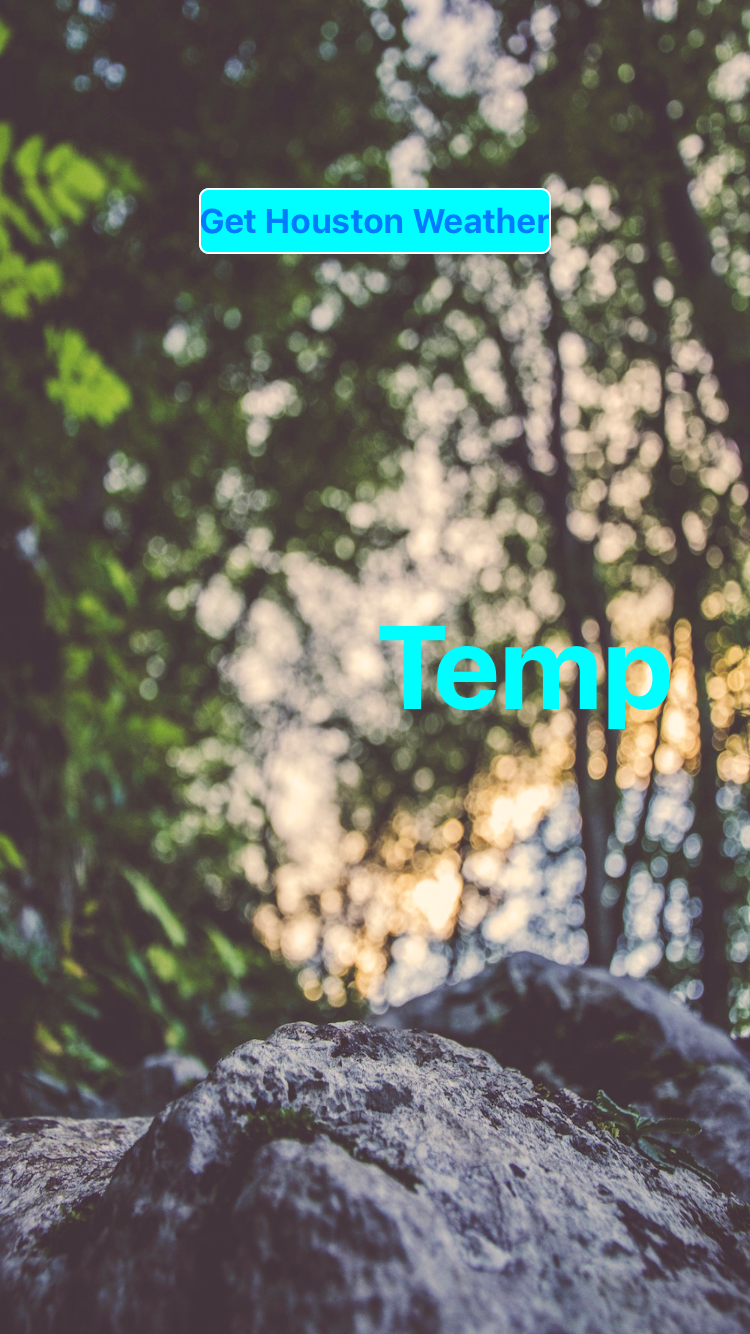
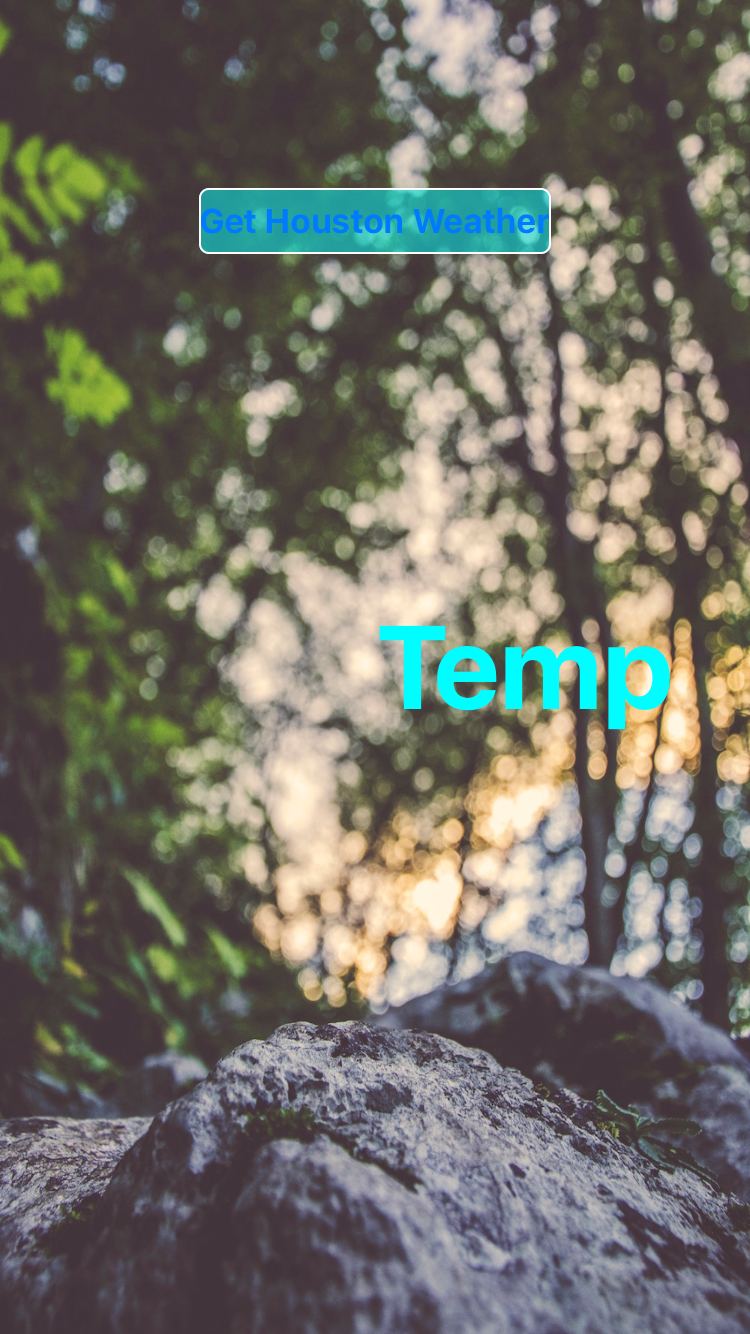
Update the style of the button to make it transparent

Changed region(s): [[0.2453, 0.1229, 0.736, 0.2151]]

diff --git a/HoustonWeather/HoustonWeather/Controller/ViewController.swift b/HoustonWeather/HoustonWeather/Controller/ViewController.swift
@@ -29,6 +29,7 @@ class ViewController: UIViewController {
         getWeatherButton.layer.cornerRadius = 5
         getWeatherButton.layer.borderWidth = 1
         getWeatherButton.layer.borderColor = UIColor.white.cgColor
+        getWeatherButton.layer.backgroundColor = UIColor(red: 0, green: 253.0/255.0, blue: 1, alpha: 0.5).cgColor
         // Do any additional setup after loading the view, typically from a nib.
     }
     
